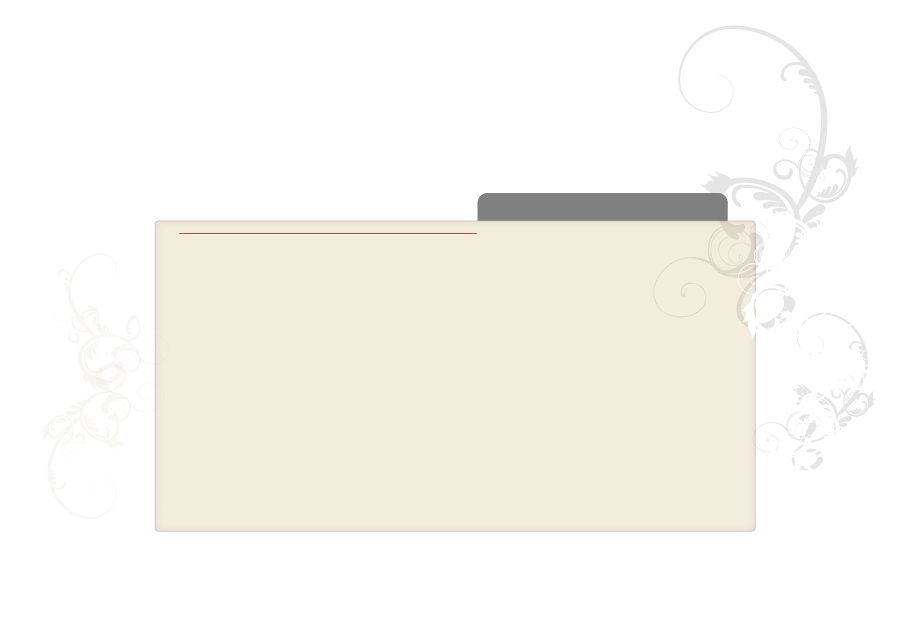
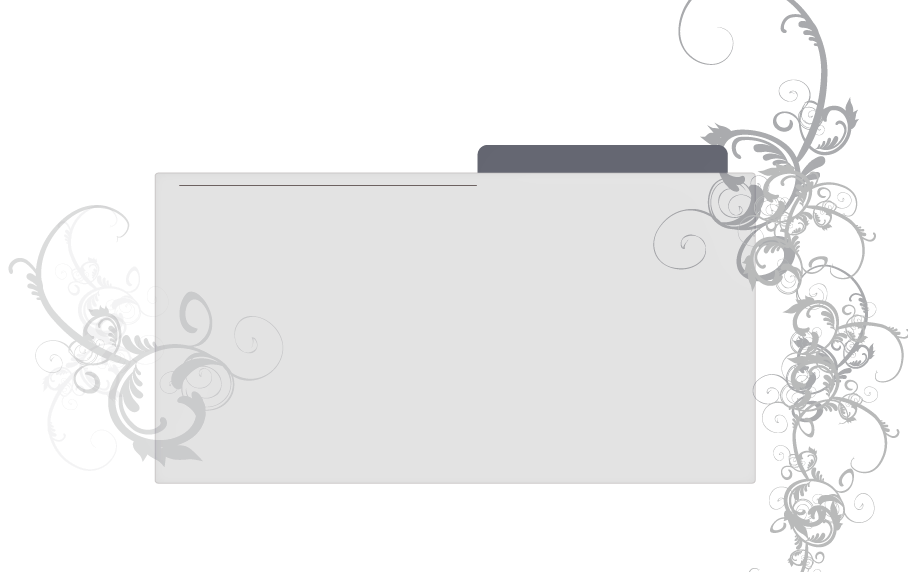
AAA

diff --git a/style.css b/style.css
@@ -36,7 +36,7 @@ body:before{
 #copyright
 {
     
-    padding-top:195px;
+    padding-top:148px;
     
     color: #fff;
     width: 100%;
